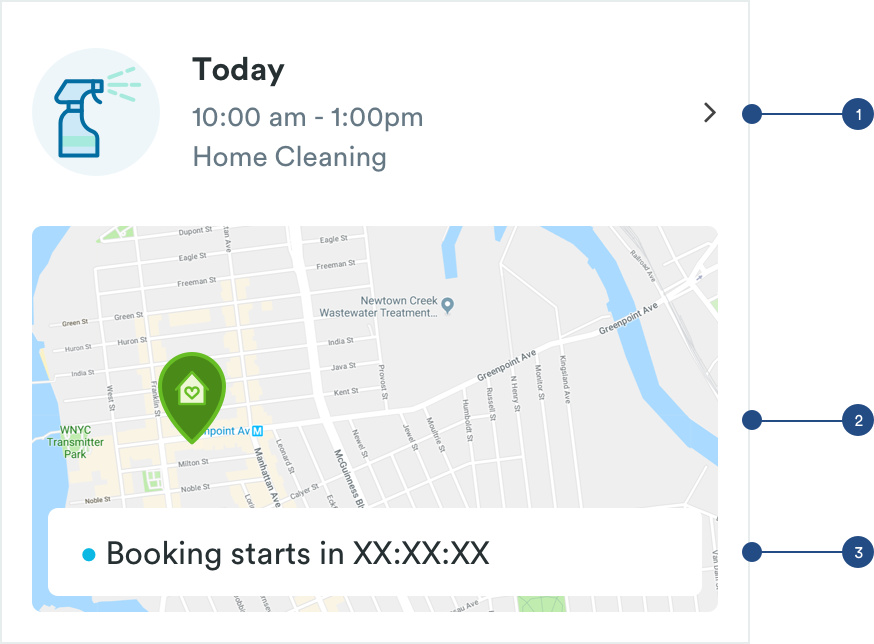
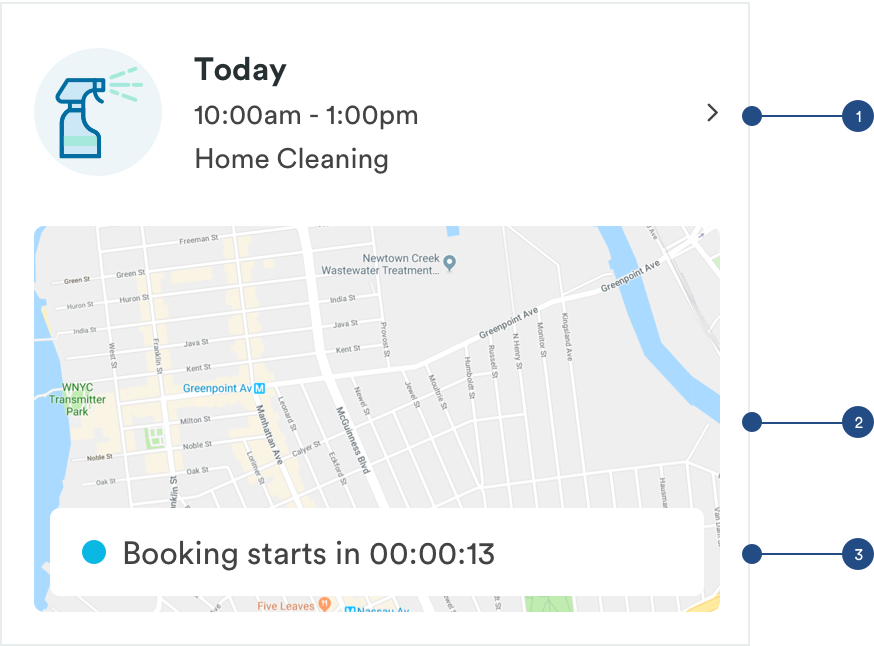
GitBook: [master] 9 pages and 13 assets modified

diff --git a/native/action-cards/booking-cards.md b/native/action-cards/booking-cards.md
@@ -1,7 +1,7 @@
 ---
 description: >-
-  Booking cards lead users to review details of any bookings and edit any
-  upcoming bookings.
+  Booking cards live in the customer app and lead users to review details of any
+  bookings and edit any upcoming bookings.
 ---
 
 # Booking Cards
@@ -10,25 +10,24 @@ description: >-
 
 Booking lists are made up of booking cards. Booking cards are used to represent a single booking \(can be an upcoming or past booking\). When a user is viewing a booking card, they will see key information like type of service and date/time of that booking.
 
-### Booking Card Types
+![](../../.gitbook/assets/bookings-overview.png)
 
-**1.** [**Booking Card \(m-card-booking\)**](booking-cards.md#anatomy-of-booking-card-m-card-booking)\*\*\*\*
+## Booking Card Types
+
+**1.** [**Booking Card \(card-booking-basic\)**](booking-cards.md#anatomy-of-booking-card-m-card-booking)  
+**2.** [**Active Booking Card \(card-booking-active\)**](booking-cards.md#anatomy-of-active-booking-states-m-card-booking-active)\*\*\*\*
+
+## Anatomy of Booking Card \(card-booking\)
 
 ![](../../.gitbook/assets/booking-list.png)
 
-**2.** [**Active Booking Card \(m-card-booking-active\)**](booking-cards.md#anatomy-of-active-booking-states-m-card-booking-active)\*\*\*\*
-
-![](../../.gitbook/assets/active-booking-list.png)
-
-## Anatomy of Booking Card \(m-card-booking\)
-
 ![](../../.gitbook/assets/booking-list_detail.png)
 
-**1. Booking Image \(a-avatar-bookings\)**  
-Adds a visual element to the card and represents the service. This image will change based on the service. Adopts avatar styling.
+**1. Booking Avatar \(avatar-bookings\)**  
+Adds a visual element to the card and represents the service.
 
 ```text
-a-avatar-bookings:
+avatar-bookings:
 max-height: 64px
 max-width: 64px
 
@@ -38,38 +37,40 @@ padding-top: 24px
 padding-bottom: 16px
 ```
 
-**2. Booking Information \(a text-h3, a-text-tert\)**  
+**2. Booking Information \(text-h3, text-tert\)**  
 Reflects key information about the booking. [**H1 styling**](../typography/#h1-style) for the Date and [**Tertiary styling**](../typography/#tertiary-styling) for the Time and Service Name.
 
 ```text
-a-text-h3:
+text-h3:
 font-size: 16px
 font-weight: bold
 font-color: text-black
 padding-bottom: 4px
 
-a-text-tert:
+text-tert:
 font-size: 14px
 font-weight: book
-font-color: slate-medium-dark
+font-color: text-black
 padding-bottom: 4px
 ```
 
-**3. Metadata \(m-metadata-partner, a-text-tert, a-icon-metadata\)**  
-[**Tertiary styling**](../typography/#tertiary-styling) is used for metadata. Metatdata is only shown  if the booking is made through one of Handy's partners \(Wayfair, Walmart, HomeAdvisor, etc\). Partner bookings will be differentiated by the partner's logo. 
+**3. Metadata \(a-text-tert\)**  
+Font Awesome and [**tertiary styling**](../typography/#tertiary-styling) is used for metadata icon and text. Metadata is only shown  if the booking is made through one of Handy's partners \(Wayfair, Walmart, HomeAdvisor, etc\). Partner bookings will be differentiated by the partner's logo. 
 
 ```text
-a-text-tert:
+text-tert:
 font-size: 14px
 font-weight: book
-font-color: slate-dark-medium
+font-color: slate-dark
 
-a-icon-metadata-partner:
-max-width: 12px
-padding-right: 8px
+font awesome:
+font-size: 14px
+font-weight: book
+font-color: slate-dark
+padding-right: 4px
 ```
 
-**4. Divider \(a-divider-light\)**  
+**4. Divider \(a-divider-light-343\)**  
 For easy viewing and consumption, booking cards will have divider lines.
 
 ```text
@@ -80,16 +81,18 @@ color: slate-light
 padding-top: 24px
 ```
 
-## Anatomy of Active Booking States \(m-card-booking-active\)
+## Anatomy of Active Booking States \(card-booking-active\)
 
 On the day of the booking, the booking card will have a map component added to it that will give the customer updates about their booking.
 
+![](../../.gitbook/assets/active-booking-list.png)
+
 ![](../../.gitbook/assets/active-booking-details.png)
 
-**1. Booking Card \(m-card-booking\)**  
+**1. Booking Card \(card-booking\)**  
 [**Booking Card**](booking-cards.md#anatomy-of-booking-card) component is reused here. The H1 will be updated with "Today"  
 
-**2. Map \(a-map\)**  
+**2. Map \(a-card-map\)**  
 Visualization of the status of the booking. 
 
 ```text
@@ -97,9 +100,10 @@ a-map:
 max-width: 343px
 max-height: 193px
 padding-top: 24px
+padding-bottom: 24px
 ```
 
-**3. Status Bar \(m-status\)**  
+**3. Status Bar \(a-card-booking-status\)**  
 Reflects the status of the booking and pro's ETA
 
 ![](../../.gitbook/assets/status-details.png)
@@ -109,24 +113,24 @@ a. Container
 ```text
 max-width: 327px
 max-height:  44px
-padding-left: 16px
-padding-right: 16px
-padding-top: 24px
-padding-bottom: 24px
 margin: 8px
 ```
 
-b. Status Indicator \(a-indicator\)
+b. Status Indicator \(a-icon-indicator\)
 
 ```text
-a-indicator:
-max-width: 8px
-max-height: 8px
+a-icon-indicator:
+max-width: 12px
+max-height: 12px
 padding-left: 16px
 padding-right: 8px
+padding-top: 16px
+padding-bottom: 16px
 
 a-indicator colors:
-red-medium or blue-medium
+blue-medium - on time
+red-medium - late
+slate-dark - status unknown
 ```
 
 c. Status Text \(a-text-paragraph\)
@@ -136,5 +140,10 @@ a-text-paragraph:
 font-weight: book
 font-size: 16px
 font-color: text-black
+
+padding-left: 8px
+padding-right: 16px
+padding-top: 16px
+padding-bottom: 16px
 ```
 

diff --git a/native/action-cards/README.md b/native/action-cards/README.md
@@ -1,10 +1,12 @@
 ---
-description: >-
-  Action cards contain list items that have underlying pages or flows. Action
-  cards can be found in the My Pros, Pro Search, Messages and Bookings pages.
+description: Action cards contain list items that have underlying pages or flows.
 ---
 
 # Action Cards
+
+## Usage of Action Cards
+
+Action cards allow users to access underlying pages or flows. Action cards can be found in the Booking Page a on the customer app and the Claims page and Job Support experience on the pro app.
 
 ![](../../.gitbook/assets/list-overview.png)
 
@@ -14,20 +16,21 @@ description: >-
 
 There are a few variations of action cards, but all inherit the same basic structure. 
 
-**1.** [**Booking Card \(m-card-booking\)**](booking-cards.md)  
-Booking cards give users key information about a booking. If a booking is active the card will incorporate a map.
+\*\*\*\*[**1. Booking Card \(card-CA-booking\)**](booking-cards.md)  
+Booking cards give users key information about a booking. If a booking is active the card will incorporate a map.  
+  
+[**2. Jobs \(card-PA-job\)**](message-cards.md)  
+Job cards show key information about jobs.  
+  
+[**3. User Card \(card-CA-pro, card-PA-cust\)**](user-cards.md)  
+User cards have key informations about customers and professionals. Depending on the context of the card, different kinds of information will be surfaced.
 
-![](../../.gitbook/assets/bookings-overview.png)
-
-**2.** [**Pro Card \(m-card-pro\)**](pro-cards.md)  
-Pro cards give users key information about a professional. Depending of the context of the pro card, information like the pro's availability will be surfaced.
-
-![](../../.gitbook/assets/pro-overview.png)
-
-**3.** [**Messages \(m-card-message\)**](message-cards.md)  
-Message cards reflect key information about the message received.
-
-![](../../.gitbook/assets/message-overview.png)
-
-
+[**4. Messages \(card-message\)**](message-cards.md)  
+Message cards shows a preview of the last message sent or received.   
+  
+[**5. List \(card-list\)**](message-cards.md)  
+List cards are list items that have underlying flows or pages. Can be shown with or without an icon.  
+  
+[**6. Account \(card-account\)**](message-cards.md)  
+Account cards show the name of the owner of the account.
 

diff --git a/native/action-cards/user-cards.md b/native/action-cards/user-cards.md
@@ -4,7 +4,7 @@ description: >-
   the pro's profile.
 ---
 
-# Pro Cards
+# User Cards
 
 ## Usage of Pro Cards
 
@@ -12,15 +12,15 @@ Pro lists are made up of booking cards. Pro cards are used to give users a basic
 
 ### Types of Pro Cards
 
-**1.** [**Basic Pro Card \(m-card-pro\)**](pro-cards.md#anatomy-of-basic-pro-card-m-card-pro)\*\*\*\*
+**1.** [**Basic Pro Card \(m-card-pro\)**](user-cards.md#anatomy-of-basic-pro-card-m-card-pro)\*\*\*\*
 
 ![](../../.gitbook/assets/pc-basic.png)
 
-**2.** [**Pro Search Card \(m-card-pro-search\)**](pro-cards.md#anatomy-of-pro-search-card-m-card-pro-search)\*\*\*\*
+**2.** [**Pro Search Card \(m-card-pro-search\)**](user-cards.md#anatomy-of-pro-search-card-m-card-pro-search)\*\*\*\*
 
 ![](../../.gitbook/assets/pc-search.png)
 
-**3.** [**Pro Search with Availability Card \(m-card-pro-availability\)**](pro-cards.md#pro-search-with-time)\*\*\*\*
+**3.** [**Pro Search with Availability Card \(m-card-pro-availability\)**](user-cards.md#pro-search-with-time)\*\*\*\*
 
 ![](../../.gitbook/assets/pc-avail.png)
 
@@ -86,7 +86,7 @@ Users can access pro search by clicking through from the My Pros page. They can 
 
 ![](../../.gitbook/assets/pro-search-list.png)
 
-**1.** [**Basic Pro Card**](pro-cards.md#anatomy-of-basic-pro-card-m-card-pro)\*\*\*\*
+**1.** [**Basic Pro Card**](user-cards.md#anatomy-of-basic-pro-card-m-card-pro)\*\*\*\*
 
 ```text
 padding-bottom: 16px
@@ -152,7 +152,7 @@ padding-top: 24px
 
 ## Pro Search with Availability Card \(m-card-pro-availability\)
 
-User can do a pro search from a flows like the reschedule or change pro from the booking details page. These cards are very similar to the [pro search cards](pro-cards.md#anatomy-of-pro-search-card-m-card-pro-search) above but includes information about the pro’s availability and metadata section has a max of 3.
+User can do a pro search from a flows like the reschedule or change pro from the booking details page. These cards are very similar to the [pro search cards](user-cards.md#anatomy-of-pro-search-card-m-card-pro-search) above but includes information about the pro’s availability and metadata section has a max of 3.
 
 ![Pro Search Card with Availability Information](../../.gitbook/assets/prosearchtime.png)
 

diff --git a/native/action-cards/job-cards.md b/native/action-cards/job-cards.md
@@ -1,0 +1,23 @@
+---
+description: >-
+  Job cards give pros the most important details about a job and lead to a Job
+  Details page.
+---
+
+# Job Cards
+
+## Usage of Job Cards
+
+The Claims and Schedule page are made up of jobs cards. Jobs cards are used to represent a single job. When a user is viewing a job card, they will see key information like type of service and date/time of that job.
+
+![](../../.gitbook/assets/jobs-overview%20%281%29.png)
+
+## Job Card Types
+
+**1. Pre-Claim Job Card \(card-PA-job-pre-claim\)  
+2. Claimed Job Card \(card-PA-job-claimed\)**
+
+## Anatomy of Pre-Claim Job Card \(**card-PA-job-pre-claim**\)
+
+![](../../.gitbook/assets/job-card-pre-claim.png)
+

diff --git a/README.md b/README.md
@@ -21,18 +21,9 @@ Common languages across internal teams lead to faster and streamlined building p
 
 ### Documentation
 
-Empower internal teams by creating a common language via good documentation. 
+Empower internal teams by creating a common design language via good documentation. 
 
 ### Expand
 
 In order to keep things fresh and updated, the output of this exercise must always be expanding and growing.
-
-## Design System Status
-
-As of February 2019:  
-• Customer app resources \(Master Symbols File and documentation\) are done.
-
-Upcoming Work:  
-April 2019 - Chat components completed and in HandyKit Library  
-May 2019 - Home Page/Services components and Bookings/BDP pages.
 

diff --git a/SUMMARY.md b/SUMMARY.md
@@ -10,7 +10,9 @@
 * [Native](native/README.md)
   * [Action Cards](native/action-cards/README.md)
     * [Booking Cards](native/action-cards/booking-cards.md)
-    * [Pro Cards](native/action-cards/pro-cards.md)
+    * [Job Cards](native/action-cards/job-cards.md)
+    * [Callouts](native/action-cards/callouts.md)
+    * [User Cards](native/action-cards/user-cards.md)
     * [Message Cards](native/action-cards/message-cards.md)
   * [Avatars](native/avatars.md)
   * [Banners](native/banners.md)

diff --git a/brand-guidelines/color-system.md b/brand-guidelines/color-system.md
@@ -1,3 +1,7 @@
+---
+description: An organized approach to apply colors to our UI and marketing assets.
+---
+
 # Color System
 
 ## Color System

diff --git a/native/action-cards/callouts.md b/native/action-cards/callouts.md
@@ -1,0 +1,2 @@
+# Callouts
+
